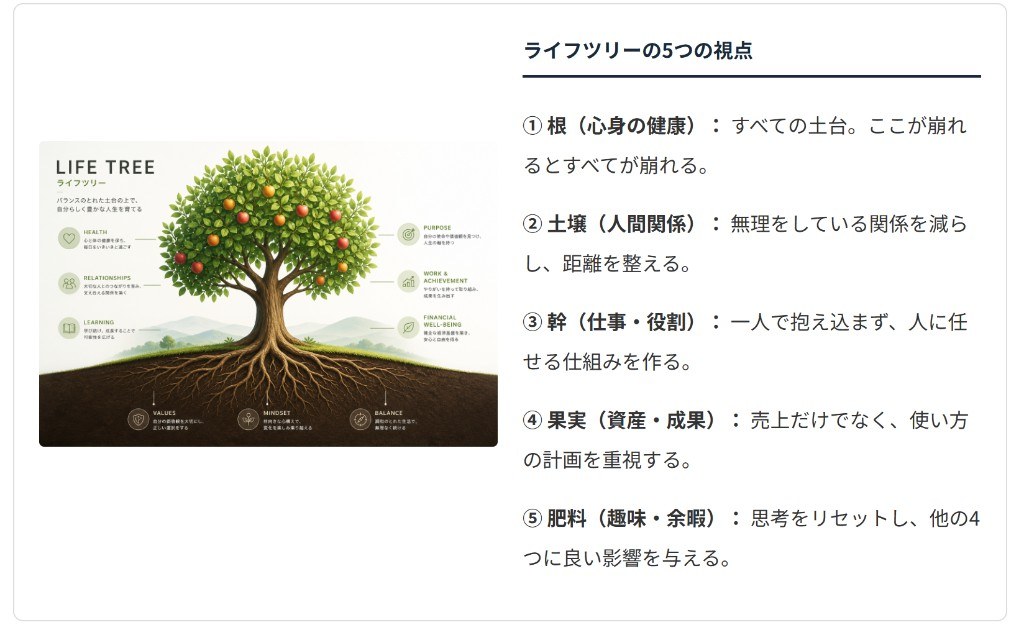
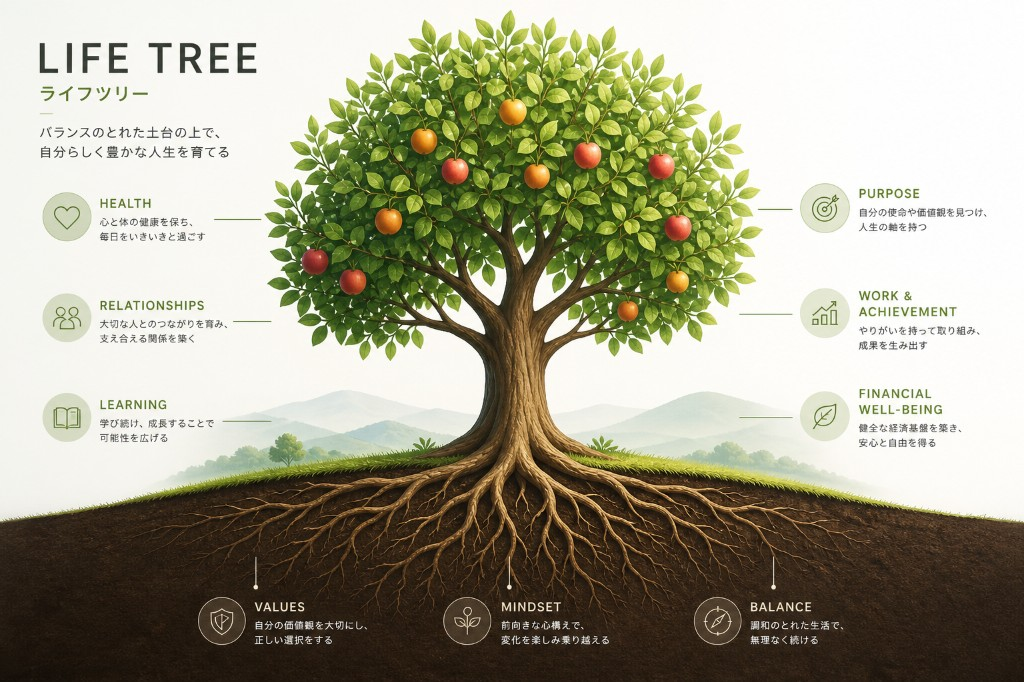
news: replace life-tree image with high-res version and center it
Use user-provided high-res image. Adjust CSS to center the image and contain it within the article width rather than full-bleed viewport width, to prevent it from looking strange or overflowing.

diff --git a/news-detail.html b/news-detail.html
@@ -114,30 +114,27 @@
             line-height: 1.7;
         }
         .news-detail-content .life-tree-bleed {
-            width: 100vw;
-            max-width: 100vw;
-            margin-left: calc(50% - 50vw);
-            margin-right: calc(50% - 50vw);
+            width: 100%;
+            max-width: 100%;
             position: relative;
-            left: 50%;
-            transform: translateX(-50%);
             background: #f0f3f6;
             border-top: 1px solid #dde3e8;
             border-bottom: 1px solid #dde3e8;
             padding: 18px 0 22px;
             box-sizing: border-box;
+            text-align: center;
         }
         .news-detail-content .life-tree-visual-inner {
-            max-width: min(1680px, 96vw);
+            max-width: 100%;
             margin: 0 auto;
-            padding: 0 10px;
+            padding: 0;
             box-sizing: border-box;
         }
         .news-detail-content .life-tree-zoom-hit {
-            display: block;
-            width: 100%;
+            display: inline-block;
+            max-width: 100%;
             padding: 0;
-            margin: 0;
+            margin: 0 auto;
             border: none;
             background: #fff;
             cursor: zoom-in;

diff --git a/news/n_20200324.html b/news/n_20200324.html
@@ -114,30 +114,27 @@
             line-height: 1.7;
         }
         .news-detail-content .life-tree-bleed {
-            width: 100vw;
-            max-width: 100vw;
-            margin-left: calc(50% - 50vw);
-            margin-right: calc(50% - 50vw);
+            width: 100%;
+            max-width: 100%;
             position: relative;
-            left: 50%;
-            transform: translateX(-50%);
             background: #f0f3f6;
             border-top: 1px solid #dde3e8;
             border-bottom: 1px solid #dde3e8;
             padding: 18px 0 22px;
             box-sizing: border-box;
+            text-align: center;
         }
         .news-detail-content .life-tree-visual-inner {
-            max-width: min(1680px, 96vw);
+            max-width: 100%;
             margin: 0 auto;
-            padding: 0 10px;
+            padding: 0;
             box-sizing: border-box;
         }
         .news-detail-content .life-tree-zoom-hit {
-            display: block;
-            width: 100%;
+            display: inline-block;
+            max-width: 100%;
             padding: 0;
-            margin: 0;
+            margin: 0 auto;
             border: none;
             background: #fff;
             cursor: zoom-in;

diff --git a/news/n_20260123.html b/news/n_20260123.html
@@ -114,30 +114,27 @@
             line-height: 1.7;
         }
         .news-detail-content .life-tree-bleed {
-            width: 100vw;
-            max-width: 100vw;
-            margin-left: calc(50% - 50vw);
-            margin-right: calc(50% - 50vw);
+            width: 100%;
+            max-width: 100%;
             position: relative;
-            left: 50%;
-            transform: translateX(-50%);
             background: #f0f3f6;
             border-top: 1px solid #dde3e8;
             border-bottom: 1px solid #dde3e8;
             padding: 18px 0 22px;
             box-sizing: border-box;
+            text-align: center;
         }
         .news-detail-content .life-tree-visual-inner {
-            max-width: min(1680px, 96vw);
+            max-width: 100%;
             margin: 0 auto;
-            padding: 0 10px;
+            padding: 0;
             box-sizing: border-box;
         }
         .news-detail-content .life-tree-zoom-hit {
-            display: block;
-            width: 100%;
+            display: inline-block;
+            max-width: 100%;
             padding: 0;
-            margin: 0;
+            margin: 0 auto;
             border: none;
             background: #fff;
             cursor: zoom-in;

diff --git a/news/n_20260125.html b/news/n_20260125.html
@@ -114,30 +114,27 @@
             line-height: 1.7;
         }
         .news-detail-content .life-tree-bleed {
-            width: 100vw;
-            max-width: 100vw;
-            margin-left: calc(50% - 50vw);
-            margin-right: calc(50% - 50vw);
+            width: 100%;
+            max-width: 100%;
             position: relative;
-            left: 50%;
-            transform: translateX(-50%);
             background: #f0f3f6;
             border-top: 1px solid #dde3e8;
             border-bottom: 1px solid #dde3e8;
             padding: 18px 0 22px;
             box-sizing: border-box;
+            text-align: center;
         }
         .news-detail-content .life-tree-visual-inner {
-            max-width: min(1680px, 96vw);
+            max-width: 100%;
             margin: 0 auto;
-            padding: 0 10px;
+            padding: 0;
             box-sizing: border-box;
         }
         .news-detail-content .life-tree-zoom-hit {
-            display: block;
-            width: 100%;
+            display: inline-block;
+            max-width: 100%;
             padding: 0;
-            margin: 0;
+            margin: 0 auto;
             border: none;
             background: #fff;
             cursor: zoom-in;

diff --git a/news/n_20260126_2.html b/news/n_20260126_2.html
@@ -114,30 +114,27 @@
             line-height: 1.7;
         }
         .news-detail-content .life-tree-bleed {
-            width: 100vw;
-            max-width: 100vw;
-            margin-left: calc(50% - 50vw);
-            margin-right: calc(50% - 50vw);
+            width: 100%;
+            max-width: 100%;
             position: relative;
-            left: 50%;
-            transform: translateX(-50%);
             background: #f0f3f6;
             border-top: 1px solid #dde3e8;
             border-bottom: 1px solid #dde3e8;
             padding: 18px 0 22px;
             box-sizing: border-box;
+            text-align: center;
         }
         .news-detail-content .life-tree-visual-inner {
-            max-width: min(1680px, 96vw);
+            max-width: 100%;
             margin: 0 auto;
-            padding: 0 10px;
+            padding: 0;
             box-sizing: border-box;
         }
         .news-detail-content .life-tree-zoom-hit {
-            display: block;
-            width: 100%;
+            display: inline-block;
+            max-width: 100%;
             padding: 0;
-            margin: 0;
+            margin: 0 auto;
             border: none;
             background: #fff;
             cursor: zoom-in;

diff --git a/news/n_20260421_1.html b/news/n_20260421_1.html
@@ -114,30 +114,27 @@
             line-height: 1.7;
         }
         .news-detail-content .life-tree-bleed {
-            width: 100vw;
-            max-width: 100vw;
-            margin-left: calc(50% - 50vw);
-            margin-right: calc(50% - 50vw);
+            width: 100%;
+            max-width: 100%;
             position: relative;
-            left: 50%;
-            transform: translateX(-50%);
             background: #f0f3f6;
             border-top: 1px solid #dde3e8;
             border-bottom: 1px solid #dde3e8;
             padding: 18px 0 22px;
             box-sizing: border-box;
+            text-align: center;
         }
         .news-detail-content .life-tree-visual-inner {
-            max-width: min(1680px, 96vw);
+            max-width: 100%;
             margin: 0 auto;
-            padding: 0 10px;
+            padding: 0;
             box-sizing: border-box;
         }
         .news-detail-content .life-tree-zoom-hit {
-            display: block;
-            width: 100%;
+            display: inline-block;
+            max-width: 100%;
             padding: 0;
-            margin: 0;
+            margin: 0 auto;
             border: none;
             background: #fff;
             cursor: zoom-in;

diff --git a/news/n_20260514_1.html b/news/n_20260514_1.html
@@ -114,30 +114,27 @@
             line-height: 1.7;
         }
         .news-detail-content .life-tree-bleed {
-            width: 100vw;
-            max-width: 100vw;
-            margin-left: calc(50% - 50vw);
-            margin-right: calc(50% - 50vw);
+            width: 100%;
+            max-width: 100%;
             position: relative;
-            left: 50%;
-            transform: translateX(-50%);
             background: #f0f3f6;
             border-top: 1px solid #dde3e8;
             border-bottom: 1px solid #dde3e8;
             padding: 18px 0 22px;
             box-sizing: border-box;
+            text-align: center;
         }
         .news-detail-content .life-tree-visual-inner {
-            max-width: min(1680px, 96vw);
+            max-width: 100%;
             margin: 0 auto;
-            padding: 0 10px;
+            padding: 0;
             box-sizing: border-box;
         }
         .news-detail-content .life-tree-zoom-hit {
-            display: block;
-            width: 100%;
+            display: inline-block;
+            max-width: 100%;
             padding: 0;
-            margin: 0;
+            margin: 0 auto;
             border: none;
             background: #fff;
             cursor: zoom-in;

diff --git a/news/n_20260515_1.html b/news/n_20260515_1.html
@@ -114,30 +114,27 @@
             line-height: 1.7;
         }
         .news-detail-content .life-tree-bleed {
-            width: 100vw;
-            max-width: 100vw;
-            margin-left: calc(50% - 50vw);
-            margin-right: calc(50% - 50vw);
+            width: 100%;
+            max-width: 100%;
             position: relative;
-            left: 50%;
-            transform: translateX(-50%);
             background: #f0f3f6;
             border-top: 1px solid #dde3e8;
             border-bottom: 1px solid #dde3e8;
             padding: 18px 0 22px;
             box-sizing: border-box;
+            text-align: center;
         }
         .news-detail-content .life-tree-visual-inner {
-            max-width: min(1680px, 96vw);
+            max-width: 100%;
             margin: 0 auto;
-            padding: 0 10px;
+            padding: 0;
             box-sizing: border-box;
         }
         .news-detail-content .life-tree-zoom-hit {
-            display: block;
-            width: 100%;
+            display: inline-block;
+            max-width: 100%;
             padding: 0;
-            margin: 0;
+            margin: 0 auto;
             border: none;
             background: #fff;
             cursor: zoom-in;